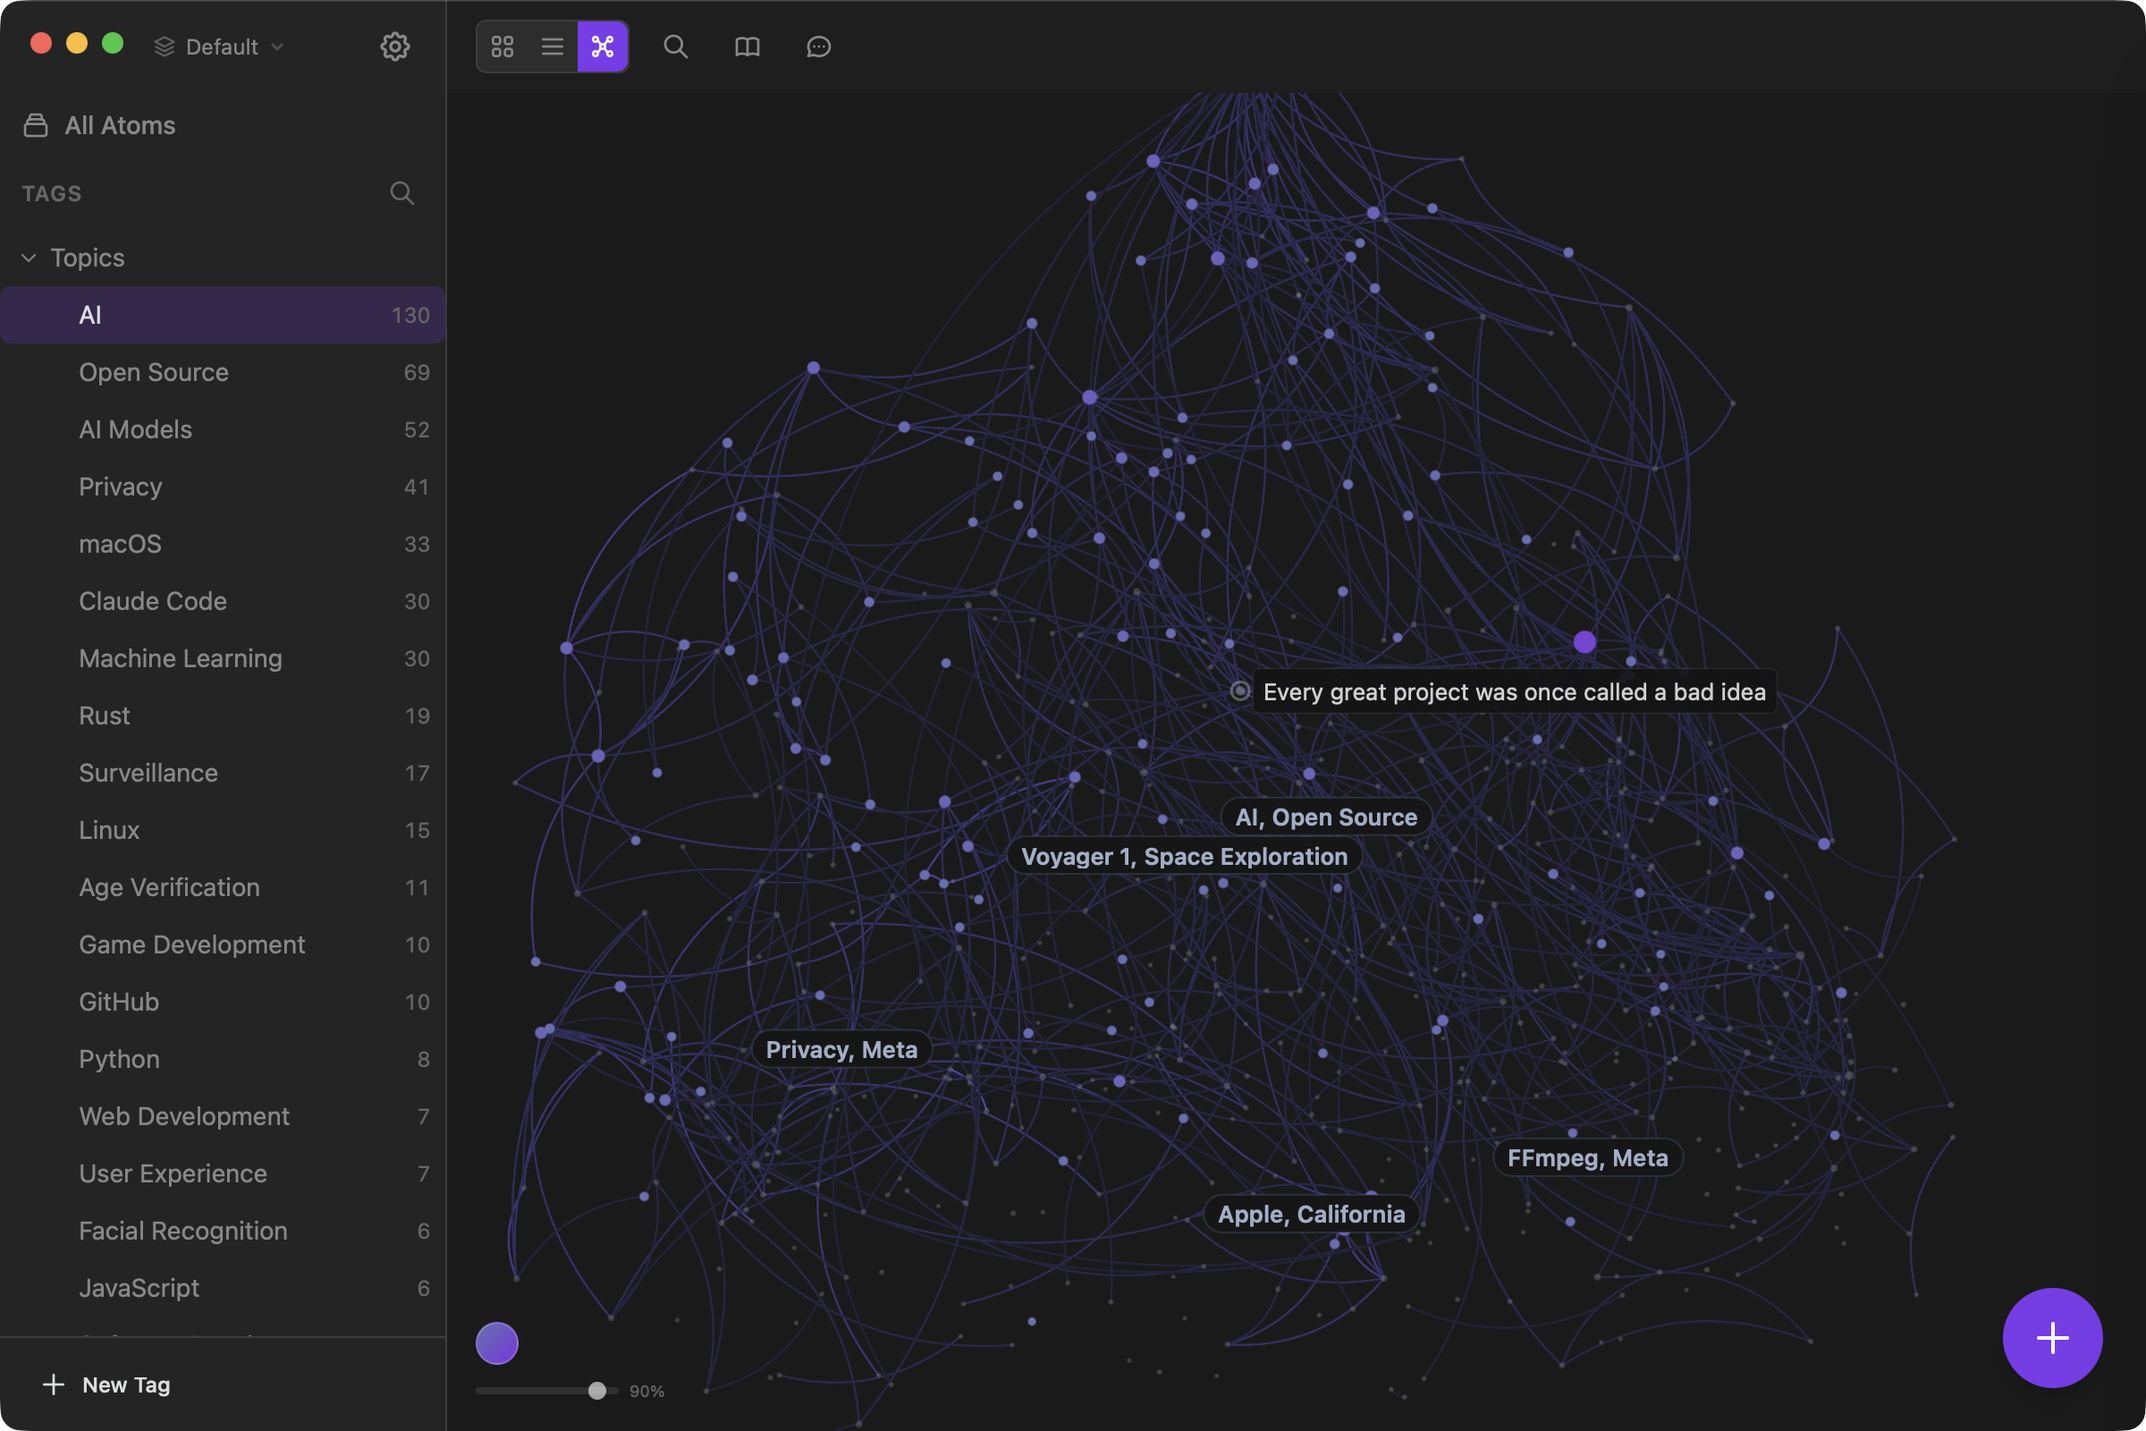
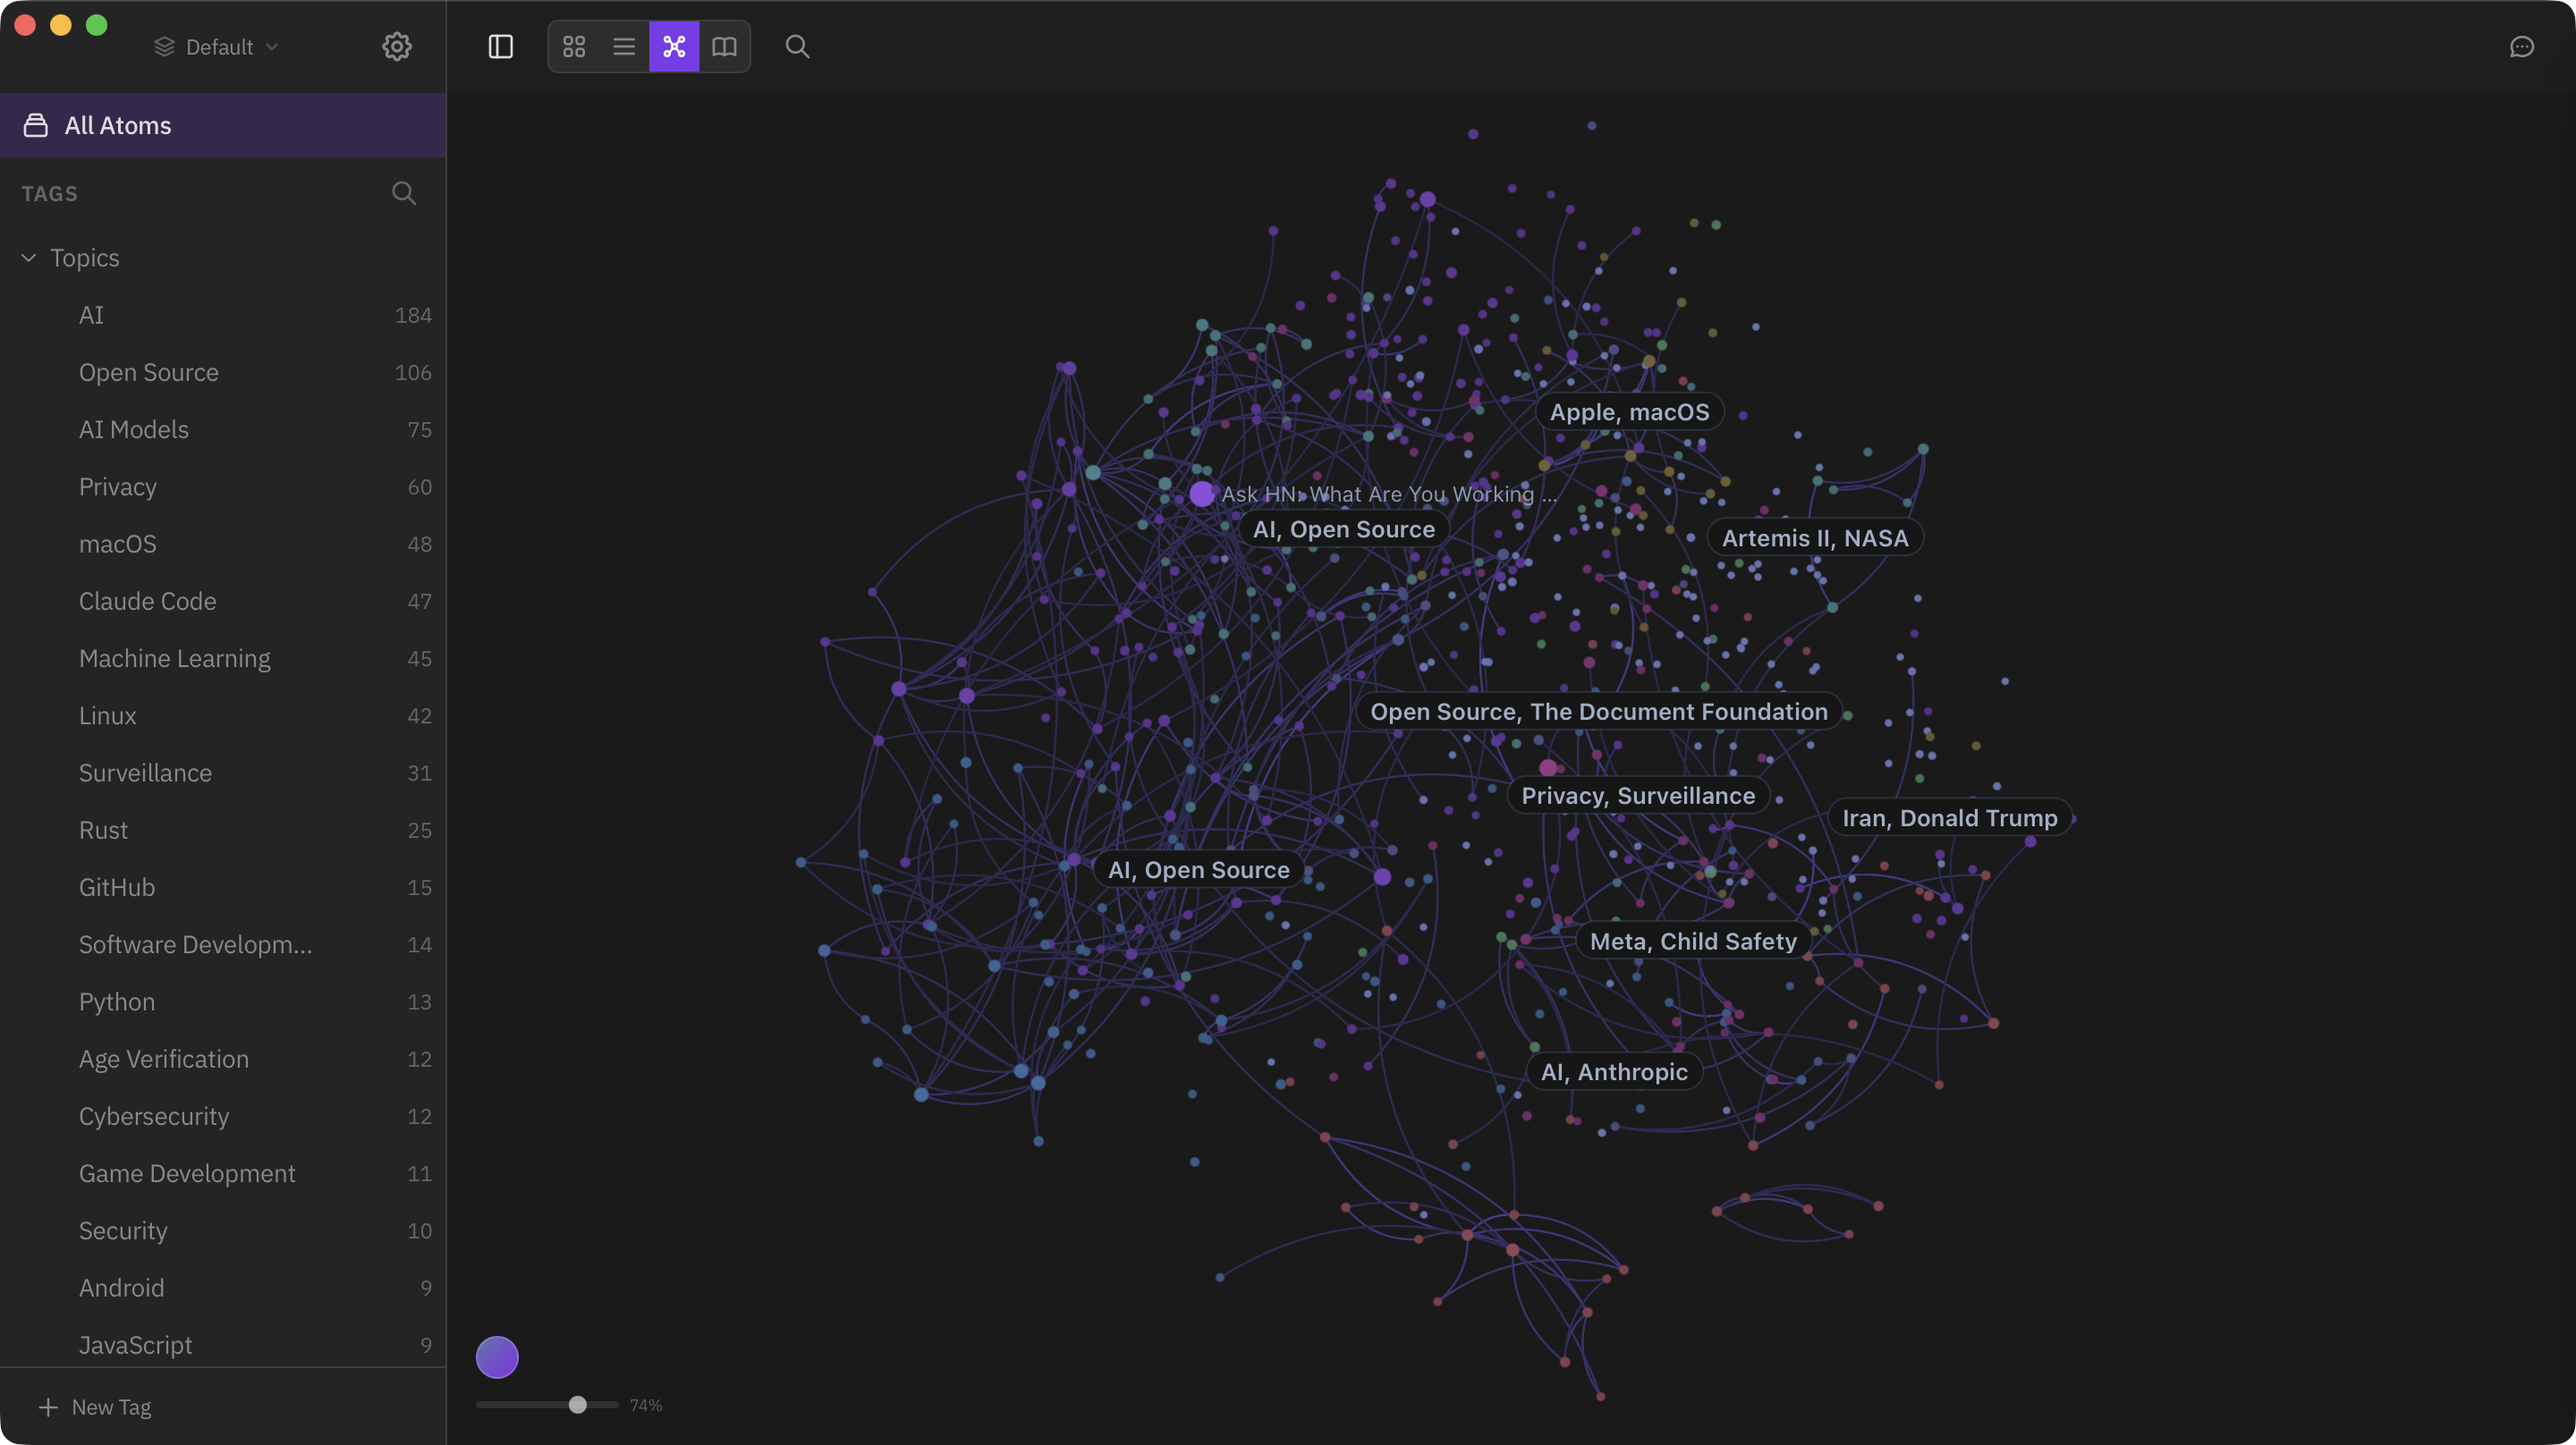
update readme

diff --git a/README.md b/README.md
@@ -14,7 +14,7 @@ Atomic stores knowledge as **atoms** — markdown notes that are automatically c
 
 *Spatial canvas — related atoms cluster together*
 
-https://github.com/user-attachments/assets/e466c26a-48f6-4eb5-b276-4145b052b390
+https://github.com/user-attachments/assets/e8cd771f-6e23-46cf-86d1-3c70cb8d1954
 
 *Atoms — markdown notes with tags, sources, and neighborhood graph*
 
@@ -24,9 +24,9 @@ https://github.com/user-attachments/assets/e466c26a-48f6-4eb5-b276-4145b052b390
 
 ![Wiki Synthesis](./docs/images/wiki.png)
 
-*Chat — agentic RAG scoped to your knowledge base*
+*Canvas — view your knowledge on an interactive graph*
 
-![Chat Interface](./docs/images/chat.png)
+![Canvas](./docs/images/canvas.png)
 
 *Semantic search — find by meaning, not keywords*
 
